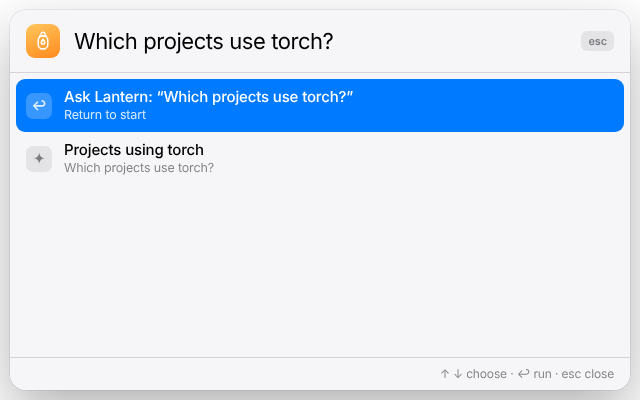
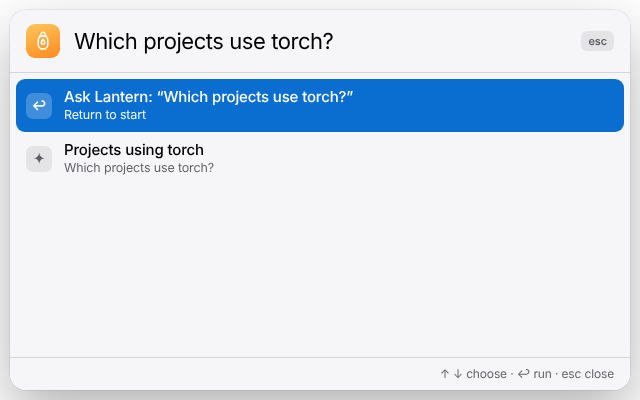
Accessibility: axe-core WCAG 2.1 AA in the e2e, zero violations
The Electron e2e runs axe-core on every panel tab in light and dark,
Quick Ask, the island asking for approval and the avatar, and fails on
any violation. The script goes in through the debugger protocol, so the
pages keep their strict CSP.

The first run found:
- privacy-zone selects with no accessible name (now "Zone for <path>")
- Apple system colours used as small text below 4.5:1: secondary label
  3.6, tint 4.0, orange and green 2.2, tab labels 3.1, white on the red
  Stop button 3.5

Text and fill tokens are now split. Fills and dots keep the system
colours; text uses --tint/--red/--orange/--green-text and a deeper
--label-2; white-text buttons use --tint-fill/--red-fill; model chips
mix their hue toward the label colour. Quick Ask and the island got the
same fixes. The README hero and gallery are re-captured.

axe-core 4.13.0 is a dev dependency (MPL-2.0) and is listed in
THIRD_PARTY.md.

Claude-Session: https://claude.ai/code/session_01TvSoHxY9ukaCyFaMy3MbbJ

diff --git a/desktop/renderer/panel.css b/desktop/renderer/panel.css
@@ -8,13 +8,16 @@
   --fill: rgba(118, 118, 128, .12);
   --fill-2: rgba(118, 118, 128, .2);
   --label: #000000;
-  --label-2: rgba(60, 60, 67, .62);
   --label-3: rgba(60, 60, 67, .32);
   --separator: rgba(60, 60, 67, .2);
   --material: rgba(249, 249, 249, .78);
   --blue: #007aff; --green: #34c759; --orange: #ff9500; --red: #ff3b30; --purple: #af52de;
   --teal: #30b0c7; --indigo: #5856d6; --amber: #ffb340; --gray: #8e8e93;
   --tint: var(--blue);
+  /* Text in colour meets WCAG AA (4.5:1) at these small sizes; the system colours above stay for fills and dots. */
+  --label-2: rgba(60, 60, 67, .8);
+  --tint-text: #0062cc; --red-text: #d70015; --orange-text: #a05a00; --green-text: #1f7a37;
+  --tint-fill: #0a6ed1; --red-fill: #d70015;   /* white text sits on these */
   --shadow: 0 1px 2px rgba(0, 0, 0, .04), 0 8px 24px rgba(0, 0, 0, .06);
   --radius: 12px;
   --spring: cubic-bezier(.2, .8, .2, 1);
@@ -29,6 +32,7 @@
     --blue: #0a84ff; --green: #30d158; --orange: #ff9f0a; --red: #ff453a; --purple: #bf5af2;
     --teal: #40c8e0; --indigo: #5e5ce6; --gray: #98989d;
     --shadow: 0 0 0 .5px rgba(255, 255, 255, .08);
+    --tint-text: #409cff; --red-text: #ff6961; --orange-text: #ffb340; --green-text: #30d158;
   }
 }
 
@@ -63,7 +67,7 @@ button { cursor: pointer; }
 .status.down::before { background: var(--red); }
 .capsule { font-size: 12px; font-weight: 600; font-variant-numeric: tabular-nums; padding: 4px 10px; border-radius: 99px; background: var(--fill); color: var(--label-2); }
 .stop {
-  border: 0; border-radius: 99px; padding: 6px 14px; font-size: 13px; font-weight: 700; color: #fff; background: var(--red);
+  border: 0; border-radius: 99px; padding: 6px 14px; font-size: 13px; font-weight: 700; color: #fff; background: var(--red-fill);
   transition: transform .15s var(--spring), filter .15s;
 }
 .stop:hover { filter: brightness(1.06); }
@@ -79,7 +83,7 @@ main > section.on { display: block; animation: rise .28s var(--spring); }
 .eyebrow { margin: 0 0 2px; font-size: 13px; font-weight: 600; color: var(--label-2); text-transform: uppercase; letter-spacing: .02em; }
 h2.section { margin: 22px 4px 6px; font-size: 13px; font-weight: 400; text-transform: uppercase; letter-spacing: .02em; color: var(--label-2); }
 .footnote { margin: 6px 4px 0; font-size: 12.5px; color: var(--label-2); }
-.warn-text { color: var(--orange); padding: 0 16px 12px; margin: 0; }
+.warn-text { color: var(--orange-text); padding: 0 16px 12px; margin: 0; }
 .warn-text:empty { display: none; }
 .empty { color: var(--label-2); text-align: center; padding: 28px 12px; font-size: 14px; }
 .hint { color: var(--label-2); font-size: 12.5px; margin: 6px 16px; }
@@ -95,10 +99,10 @@ h2.section { margin: 22px 4px 6px; font-size: 13px; font-weight: 400; text-trans
 .row-icon { width: 30px; height: 30px; border-radius: 7px; display: grid; place-items: center; color: #fff; flex: none; }
 .row-icon .ico { width: 19px; height: 19px; }
 .row-icon.teal { background: var(--teal); } .row-icon.orange { background: var(--orange); } .row-icon.blue { background: var(--blue); }
-.row.destructive { color: var(--red); justify-content: center; font-weight: 500; }
-.row.link { color: var(--tint); justify-content: center; font-weight: 500; }
+.row.destructive { color: var(--red-text); justify-content: center; font-weight: 500; }
+.row.link { color: var(--tint-text); justify-content: center; font-weight: 500; }
 .row.destructive:active, .row.link:active { background: var(--fill); }
-.tinted { border: 0; border-radius: 8px; padding: 7px 14px; font-weight: 600; font-size: 14px; color: var(--tint);
+.tinted { border: 0; border-radius: 8px; padding: 7px 14px; font-weight: 600; font-size: 14px; color: var(--tint-text);
           background: color-mix(in srgb, var(--tint) 14%, transparent); }
 .tinted:active { transform: scale(.97); }
 select { appearance: none; -webkit-appearance: none; border: 0; border-radius: 8px; padding: 7px 28px 7px 10px; background: var(--fill)
@@ -110,7 +114,7 @@ select { appearance: none; -webkit-appearance: none; border: 0; border-radius: 8
 .ask .lead { width: 18px; height: 18px; color: var(--label-2); }
 .ask input { flex: 1; min-width: 0; border: 0; outline: 0; background: transparent; font-size: 16px; }
 .ask input::placeholder, .phone-form input::placeholder, .zone-add input::placeholder { color: var(--label-3); }
-.send { width: 32px; height: 32px; border-radius: 50%; border: 0; display: grid; place-items: center; color: #fff; background: var(--tint);
+.send { width: 32px; height: 32px; border-radius: 50%; border: 0; display: grid; place-items: center; color: #fff; background: var(--tint-fill);
         transition: transform .15s var(--spring), opacity .15s; }
 .send .ico { width: 18px; height: 18px; stroke-width: 2.4; }
 .send:active { transform: scale(.92); }
@@ -128,7 +132,7 @@ select { appearance: none; -webkit-appearance: none; border: 0; border-radius: 8
 .tile.orange .t-label::before { background: var(--orange); } .tile.green .t-label::before { background: var(--green); }
 .tile.blue .t-label::before { background: var(--blue); } .tile.purple .t-label::before { background: var(--purple); }
 .tile .t-value { font-size: 26px; font-weight: 700; letter-spacing: -.02em; margin-top: 4px; font-variant-numeric: tabular-nums; }
-.tile.orange .t-value { color: var(--orange); }
+.tile.orange .t-value { color: var(--orange-text); }
 .tile .t-note { font-size: 12.5px; color: var(--label-2); white-space: nowrap; overflow: hidden; text-overflow: ellipsis; }
 
 /* ---- approval sheet ---- */
@@ -154,7 +158,7 @@ select { appearance: none; -webkit-appearance: none; border: 0; border-radius: 8
 .approval .hash { font: 11px var(--mono); color: var(--label-3); margin-top: 6px; }
 .approval .row-btns { display: grid; grid-template-columns: 1fr 1.6fr; gap: 10px; margin-top: 14px; }
 .approval .deny { border: 0; border-radius: 12px; height: 46px; font-weight: 600; font-size: 16px; color: var(--label); background: var(--fill); }
-.approval .allow { border: 0; border-radius: 12px; height: 46px; font-weight: 600; font-size: 16px; color: #fff; background: var(--tint);
+.approval .allow { border: 0; border-radius: 12px; height: 46px; font-weight: 600; font-size: 16px; color: #fff; background: var(--tint-fill);
                    transition: transform .15s var(--spring), filter .15s; }
 .approval .allow:hover { filter: brightness(1.06); }
 .approval .allow:active, .approval .deny:active { transform: scale(.98); }
@@ -173,32 +177,32 @@ select { appearance: none; -webkit-appearance: none; border: 0; border-radius: 8
 .task .goal { font-weight: 600; font-size: 15px; }
 .task .status { font-size: 12.5px; color: var(--label-2); margin-top: 1px; }
 .task details { margin-top: 8px; }
-.task summary { font-size: 13px; color: var(--tint); cursor: pointer; list-style: none; }
+.task summary { font-size: 13px; color: var(--tint-text); cursor: pointer; list-style: none; }
 .task summary::-webkit-details-marker { display: none; }
 .task summary::after { content: " ›"; }
 .task details[open] summary::after { content: " ⌄"; }
 .steps { list-style: none; margin: 6px 0 0; padding: 0; }
 .steps li { display: flex; align-items: center; gap: 8px; padding: 3px 0; font-size: 13px; }
-.steps li.bad { color: var(--red); }
+.steps li.bad { color: var(--red-text); }
 .chip { flex: none; font-size: 11px; font-weight: 600; padding: 2px 8px; border-radius: 99px; background: var(--fill); color: var(--label-2); }
-.chip.spark { background: color-mix(in srgb, var(--indigo) 16%, transparent); color: var(--indigo); }
-.chip.wonder { background: color-mix(in srgb, var(--orange) 18%, transparent); color: color-mix(in srgb, var(--orange) 80%, var(--label)); }
-.chip.glimmer { background: color-mix(in srgb, var(--green) 18%, transparent); color: color-mix(in srgb, var(--green) 70%, var(--label)); }
-.chip.voice { background: color-mix(in srgb, var(--teal) 18%, transparent); color: var(--teal); }
-.chip.image { background: color-mix(in srgb, var(--purple) 16%, transparent); color: var(--purple); }
-.chip.sam { background: color-mix(in srgb, var(--blue) 14%, transparent); color: var(--blue); }
+.chip.spark { background: color-mix(in srgb, var(--indigo) 16%, transparent); color: color-mix(in srgb, var(--indigo) 55%, var(--label)); }
+.chip.wonder { background: color-mix(in srgb, var(--orange) 18%, transparent); color: color-mix(in srgb, var(--orange) 55%, var(--label)); }
+.chip.glimmer { background: color-mix(in srgb, var(--green) 18%, transparent); color: color-mix(in srgb, var(--green) 55%, var(--label)); }
+.chip.voice { background: color-mix(in srgb, var(--teal) 18%, transparent); color: color-mix(in srgb, var(--teal) 55%, var(--label)); }
+.chip.image { background: color-mix(in srgb, var(--purple) 16%, transparent); color: color-mix(in srgb, var(--purple) 55%, var(--label)); }
+.chip.sam { background: color-mix(in srgb, var(--blue) 14%, transparent); color: color-mix(in srgb, var(--blue) 55%, var(--label)); }
 .task .reply { margin: 10px 0 0; padding: 10px 12px; border-radius: 12px; background: var(--fill); white-space: pre-wrap; font-size: 14px; }
 .task .actions { display: flex; gap: 16px; margin-top: 8px; }
-.task .forget { border: 0; background: transparent; color: var(--tint); font-size: 13px; padding: 0; }
+.task .forget { border: 0; background: transparent; color: var(--tint-text); font-size: 13px; padding: 0; }
 .task .forget.quiet { color: var(--label-2); }
 .task .undone { font-size: 13px; color: var(--label-2); }
 .interrupted { background: var(--card); border-radius: var(--radius); box-shadow: var(--shadow); padding: 12px 14px; margin-top: 12px; font-size: 13.5px; }
 .interrupted ul { margin: 6px 0 8px; padding-left: 18px; color: var(--label-2); }
 
 /* ---- reminders ---- */
-.reminder .when { flex: none; font-weight: 600; font-size: 13px; color: var(--orange); font-variant-numeric: tabular-nums; }
+.reminder .when { flex: none; font-weight: 600; font-size: 13px; color: var(--orange-text); font-variant-numeric: tabular-nums; }
 .reminder .what { flex: 1; min-width: 0; word-break: break-word; }
-.reminder .forget { border: 0; background: transparent; color: var(--tint); font-size: 13.5px; padding: 0; }
+.reminder .forget { border: 0; background: transparent; color: var(--tint-text); font-size: 13.5px; padding: 0; }
 .checkin-group { margin-top: 22px; }
 .checkin select { flex: 1; }
 
@@ -208,7 +212,7 @@ select { appearance: none; -webkit-appearance: none; border: 0; border-radius: 8
 .hero-number .big { display: block; font-size: 34px; line-height: 1.1; letter-spacing: -.02em; font-variant-numeric: tabular-nums; }
 .hero-number .caption { display: block; margin-top: 2px; font-size: 14.5px; font-weight: 500; color: var(--label-2); letter-spacing: 0; }
 .hero-number.small { font-size: 17px; }
-.hero-good { margin: 4px 0 0; color: var(--green); font-weight: 500; font-size: 14px; }
+.hero-good { margin: 4px 0 0; color: var(--green-text); font-weight: 500; font-size: 14px; }
 table.rows { width: 100%; border-collapse: collapse; }
 table.rows td { padding: 11px 16px; border-top: .5px solid var(--separator); font-size: 14.5px; }
 table.rows td:last-child { text-align: right; color: var(--label-2); font-variant-numeric: tabular-nums; }
@@ -233,7 +237,7 @@ table.rows td:last-child { text-align: right; color: var(--label-2); font-varian
        box-shadow: 0 .5px 0 var(--separator); }
 .msg.me { align-self: flex-end; background: var(--green); color: #fff; }
 .msg .btns { display: flex; flex-direction: column; margin: 8px -12px -8px; }
-.msg .btns button { border: 0; border-top: .5px solid var(--separator); background: transparent; color: var(--tint); padding: 9px; font-weight: 600; }
+.msg .btns button { border: 0; border-top: .5px solid var(--separator); background: transparent; color: var(--tint-text); padding: 9px; font-weight: 600; }
 .phone-form { display: flex; gap: 8px; align-items: center; padding: 8px 10px; border-top: .5px solid var(--separator); }
 .phone-form input { flex: 1; height: 36px; border-radius: 18px; border: .5px solid var(--separator); background: var(--bg); padding: 0 14px; outline: 0; }
 
@@ -261,9 +265,9 @@ table.rows td:last-child { text-align: right; color: var(--label-2); font-varian
   border-top: .5px solid var(--separator);
 }
 .tabs button { flex: 1; border: 0; background: transparent; display: flex; flex-direction: column; align-items: center; gap: 2px;
-               padding: 4px 0; color: var(--gray); font-size: 10.5px; font-weight: 500; border-radius: 10px; }
+               padding: 4px 0; color: var(--label-2); font-size: 10.5px; font-weight: 500; border-radius: 10px; }
 .tabs button .ico { width: 24px; height: 24px; }
-.tabs button.on { color: var(--tint); }
+.tabs button.on { color: var(--tint-text); }
 .tabs button.on .ico { stroke-width: 2.1; }
 
 /* ---- toast (HUD) ---- */
@@ -306,7 +310,7 @@ kbd { font: 600 12px var(--font); color: var(--label-2); padding: 3px 8px; borde
 .features b { display: block; font-size: 15px; }
 .features small { display: block; color: var(--label-2); font-size: 13.5px; line-height: 1.35; }
 .row-icon.green { background: var(--green); } .row-icon.purple { background: var(--purple); }
-.primary { width: 100%; height: 50px; border: 0; border-radius: 14px; font-size: 17px; font-weight: 600; color: #fff; background: var(--tint);
+.primary { width: 100%; height: 50px; border: 0; border-radius: 14px; font-size: 17px; font-weight: 600; color: #fff; background: var(--tint-fill);
            transition: transform .15s var(--spring), filter .15s; }
 .primary:hover { filter: brightness(1.06); }
 .primary:active { transform: scale(.98); }

diff --git a/desktop/e2e/run.js b/desktop/e2e/run.js
@@ -101,6 +101,20 @@ async function main() {
                      steps: [...t.querySelectorAll('.steps li')].map((li) => li.textContent) } : null;
       });
     }
+    // accessibility: axe-core (WCAG 2.1 A/AA) on every panel tab in light and dark, Quick Ask and the island
+    const AXE = fs.readFileSync(require.resolve('axe-core/axe.min.js'), 'utf8');
+    async function a11y(page, where) {
+      await page.evaluate(AXE);   // via the debugger protocol, so the page's CSP stays as strict as shipped
+      const found = await page.evaluate(async () => (await window.axe.run(document, {
+        runOnly: { type: 'tag', values: ['wcag2a', 'wcag2aa', 'wcag21a', 'wcag21aa'] }, resultTypes: ['violations'] }))
+        .violations.map((v) => ({ id: v.id, impact: v.impact, nodes: v.nodes.map((n) => {
+          const d = (n.any[0] && n.any[0].data) || {};
+          return n.target.join(' ') + (d.contrastRatio ? ` (${d.fgColor} on ${d.bgColor} = ${d.contrastRatio}:1, ${d.fontSize} ${d.fontWeight})` : '');
+        }) })));
+      for (const v of found) console.log(`    a11y ${where}: ${v.impact} ${v.id}\n      ${v.nodes.join('\n      ')}`);
+      return found;
+    }
+    let violations = [];
     async function finish(goal, allows, via = 'panel', start = () => ask(goal)) {
       const before = (await latestTask()) || { status: '' };
       await start();
@@ -111,6 +125,7 @@ async function main() {
           await sleep(500);
           await avatar.screenshot({ path: path.join(OUT, '8-island-approval.png') });
           await avatar.locator('.stage').screenshot({ path: path.join(OUT, '8-island-cut.png'), omitBackground: true });
+          violations = violations.concat(await a11y(avatar, 'island with an approval'));
           await avatar.click('#island-allow');
           console.log('    ⏸ approved from the island');
           await until('the card to close', async () => !(await panel.$('.approval .allow')), 15000);
@@ -191,6 +206,7 @@ async function main() {
     const quickPage = await until('the Quick Ask window', async () => app.windows().find((p) => p.url().endsWith('quick.html')));
     await quickPage.waitForSelector('#q-rows li', { timeout: 10000 });
     const suggestions = await quickPage.$$eval('#q-rows li', (els) => els.map((e) => e.className));
+    violations = violations.concat(await a11y(quickPage, 'quick ask'));
     check(suggestions.includes('suggestion') && suggestions.includes('recent'), `Quick Ask lists suggestions and recent tasks (${suggestions.join(', ')})`);
     await quickPage.fill('#q', 'Which projects use torch?');
     await sleep(200);
@@ -252,6 +268,13 @@ async function main() {
     const limits = await until('the spending limits', async () => panel.textContent('#cost-limits'));
     check(limits === 'Stops itself at $150.00 · $3.00 per task.', `Costs tab shows the limits enforced in code (${limits})`);
 
+    const TABS = ['tasks', 'privacy', 'phone', 'costs', 'widgets', 'setup'];
+    for (const name of TABS) {
+      await panel.click(`.tabs button[data-tab=${name}]`);
+      await sleep(350);
+      violations = violations.concat(await a11y(panel, `${name} (light)`));
+    }
+
     // dark appearance (macOS/Windows pass the system theme through; headless Linux can't, so emulate it)
     await panel.emulateMedia({ colorScheme: 'dark' });
     await panel.click('.tabs button[data-tab=tasks]');
@@ -260,6 +283,15 @@ async function main() {
     const dark = await panel.evaluate(() => getComputedStyle(document.body).backgroundColor);
     check(dark === 'rgb(0, 0, 0)', `dark appearance applies (${dark})`);
     await panel.screenshot({ path: path.join(OUT, '7-dark.png') });
+    for (const name of TABS) {
+      await panel.click(`.tabs button[data-tab=${name}]`);
+      await sleep(350);
+      violations = violations.concat(await a11y(panel, `${name} (dark)`));
+    }
+    await panel.click('.tabs button[data-tab=tasks]');
+    violations = violations.concat(await a11y(avatar, 'avatar'));
+    check(violations.length === 0, `no WCAG 2.1 AA violations (axe-core) on 6 panel tabs × light/dark, Quick Ask and the island` +
+          (violations.length ? `: ${[...new Set(violations.map((v) => v.id))].join(', ')}` : ''));
     await panel.emulateMedia({ colorScheme: 'light' });
 
     check(!/\[object |undefined|NaN/.test(await panel.textContent('main')), 'no rendering glitches ([object …], undefined, NaN) anywhere in the panel');

diff --git a/desktop/renderer/quick.css b/desktop/renderer/quick.css
@@ -1,12 +1,12 @@
 :root {
   color-scheme: light dark;
-  --label: #000; --label-2: rgba(60, 60, 67, .62); --sep: rgba(60, 60, 67, .18);
-  --surface: rgba(246, 246, 248, .97); --hl: #007aff; --hl-text: #fff; --chip: rgba(118, 118, 128, .14);
+  --label: #000; --label-2: rgba(60, 60, 67, .8); --sep: rgba(60, 60, 67, .18);
+  --surface: rgba(246, 246, 248, .97); --hl: #0a6ed1; --hl-text: #fff;   /* white on it meets WCAG AA */ --chip: rgba(118, 118, 128, .14);
   --font: -apple-system, BlinkMacSystemFont, "SF Pro Text", "Segoe UI Variable Text", "Segoe UI", system-ui, sans-serif;
 }
 @media (prefers-color-scheme: dark) {
   :root { --label: #fff; --label-2: rgba(235, 235, 245, .62); --sep: rgba(84, 84, 88, .6); --surface: rgba(36, 36, 38, .97);
-          --hl: #0a84ff; --chip: rgba(118, 118, 128, .3); }
+          --chip: rgba(118, 118, 128, .3); }
 }
 * { box-sizing: border-box; }
 html, body { margin: 0; height: 100%; background: transparent; overflow: hidden; }
@@ -32,9 +32,9 @@ kbd { font: 600 11px var(--font); color: var(--label-2); padding: 3px 7px; borde
 .q-rows li .t b { font-weight: 500; white-space: nowrap; overflow: hidden; text-overflow: ellipsis; }
 .q-rows li .t small { color: var(--label-2); font-size: 12.5px; white-space: nowrap; overflow: hidden; text-overflow: ellipsis; }
 .q-rows li[aria-selected="true"] { background: var(--hl); color: var(--hl-text); }
-.q-rows li[aria-selected="true"] small, .q-rows li[aria-selected="true"] .k { color: rgba(255, 255, 255, .85); }
+.q-rows li[aria-selected="true"] small, .q-rows li[aria-selected="true"] .k { color: rgba(255, 255, 255, .96); }
 .q-rows li[aria-selected="true"] .k { background: rgba(255, 255, 255, .22); }
-.q-rows li.stop .k { background: #ff3b30; color: #fff; }
-.q-rows li.approvals .k { background: #ff9500; color: #fff; }
+.q-rows li.stop .k { background: #d70015; color: #fff; }
+.q-rows li.approvals .k { background: #ff9500; color: #000; }
 .q-foot { display: flex; justify-content: space-between; gap: 10px; padding: 8px 16px; border-top: .5px solid var(--sep); font-size: 12px; color: var(--label-2); }
 @media (prefers-reduced-motion: reduce) { .quick { animation: none; } }

diff --git a/desktop/renderer/panel.js b/desktop/renderer/panel.js
@@ -370,9 +370,9 @@
       // Built-in hidden paths for other systems (macOS keychains on Linux, ...) don't exist here: fold them away.
       const folded = z.zones.filter((zone) => zone.zone === 'hidden' && zone.exists === false);
       for (const zone of z.zones.filter((x) => !folded.includes(x))) {
-        const sel = h('select', { onchange: (e) => setZone(zone.path, e.target.value) },
-          z.choices.map((c) => h('option', c === zone.zone ? { selected: true } : {}, c)));
         const name = zone.path.split(/[\\/]/).filter(Boolean).pop() || zone.path;
+        const sel = h('select', { onchange: (e) => setZone(zone.path, e.target.value), 'aria-label': `Zone for ${zone.path}` },
+          z.choices.map((c) => h('option', c === zone.zone ? { selected: true } : {}, c)));
         list.append(h('div', { class: 'zone' }, h('div', { class: 'zone-name' }, h('b', {}, name), h('code', {}, zone.path)), sel));
       }
       if (folded.length) list.append(h('p', { class: 'hint' }, `+ ${folded.length} built-in hidden paths that don't exist on this computer`));

diff --git a/desktop/renderer/avatar.css b/desktop/renderer/avatar.css
@@ -41,7 +41,7 @@ body { font: 13px/1.35 -apple-system, BlinkMacSystemFont, "SF Pro Text", "Segoe 
 .buttons button { border: 0; height: 34px; border-radius: 17px; font: inherit; font-weight: 600; font-size: 13.5px; cursor: pointer; transition: transform .15s; }
 .buttons button:active { transform: scale(.96); }
 .buttons .deny { background: rgba(255, 255, 255, .16); color: #fff; }
-.buttons .allow { background: #0a84ff; color: #fff; }
+.buttons .allow { background: #0a6ed1; color: #fff; }   /* white on it meets WCAG AA */
 .buttons .review { background: #fff; color: #000; }
 .buttons.review-only .allow { display: none; }
 .buttons:not(.review-only) .review { display: none; }

diff --git a/docs/DECISIONS.md b/docs/DECISIONS.md
@@ -90,3 +90,4 @@
 - Oct 27 (M29): Undo doesn't ask the model. The reverse of every verified move is logged in memory, and Undo replays that log through the same approval and on-disk checks as a tidy. This is cheaper ($0), can't be talked into a different plan by file names, and works offline. An undo goes back to the exact old path or not at all; it never renames or overwrites to make room. "Undo" typed in the panel, Quick Ask or the phone means "undo the last task that moved files". The same word from another program over MCP is only text for the model.
 - Oct 27 (M30): Spending limits live in code, checked before every call, with defaults of $150 total and $3 per task. A single task above $3 is almost certainly a loop: a full form fill on Muse Wonder should cost well under a dollar. The count comes from a per-day dollar ledger that "forget" leaves in place. It holds no task, no content and no model, only a date and a sum; resetting it would let a forgotten task's spending hide from the limit. Voice transcription and avatar images aren't metered there (fractions of a cent per use); every Responses call is.
 - Oct 27 (Windows): All text I/O is UTF-8, said explicitly at every call site and enforced by an AST test, rather than relying on Python's UTF-8 mode (`PYTHONUTF8=1`). Users don't set environment variables, and Electron or a shortcut launching Lantern wouldn't carry it. Files Lantern writes keep `\n` line endings: Notepad has handled them since 2018, and exact round-trips keep verification honest.
+- Oct 27 (accessibility): WCAG 2.1 AA beats pixel-matching Apple's palette. Apple's system blue, secondary label and red, as small text or under white text, measure 3.1–4.0:1, and AA asks 4.5:1. Fills, dots and large shapes keep the system colours. Text, and anything with white text on it, uses slightly deeper variants (lighter in dark mode). The look stays Apple-like and it reads better on a projector, which is where the demo will be judged.

diff --git a/BUILD_LOG.md b/BUILD_LOG.md
@@ -232,3 +232,19 @@ Everything in this repo was written during the Meta Global AI Developer Hackatho
   - **`.env` encodings:** Windows PowerShell 5.1's `echo MODEL_API_KEY=... > .env` saves UTF-16 with a BOM, and python-dotenv reads UTF-8, so Lantern would have crashed at startup or lost the key. `config.load_env()` now detects UTF-16 / UTF-8-BOM / UTF-8 and is used by the CLI, the server and `scripts/smoke.py`.
   - **README:** a PowerShell quick start (PowerShell 5.1 has no `&&`; `py -m lantern` works without pip's Scripts folder on PATH).
   - 1 new test; 395 passing.
+- Accessibility pass.
+  - **The check:** the Electron e2e now runs axe-core (WCAG 2.1 A/AA) on:
+    - all six panel tabs, in light and dark
+    - Quick Ask
+    - the island while it asks for approval, and the avatar window
+  - Any violation fails the run. The axe script is injected through the debugger protocol, so the pages' strict CSP stays as shipped.
+  - **First run:** 14 kinds of findings.
+    - the privacy-zone selects had no accessible name (now "Zone for <path>")
+    - Apple's system colours used as small text fell short of 4.5:1: secondary labels 3.6:1, the blue tint 4.0:1, orange 2.2:1, green 2.2:1, unselected tab labels 3.1:1, and white on the red Stop button 3.5:1
+  - **Fix:** text and fill tokens are split.
+    - fills and dots keep the system colours
+    - text uses `--tint-text` / `--red-text` / `--orange-text` / `--green-text` (lighter variants in dark mode) and a darker `--label-2`
+    - white-text buttons use `--tint-fill` / `--red-fill`
+    - model chips mix their hue toward the label colour, so they pass in both modes
+    - Quick Ask and the island got the same treatment
+  - **Result:** 0 violations. The README hero and gallery were re-captured from this run.

diff --git a/docs/THIRD_PARTY.md b/docs/THIRD_PARTY.md
@@ -19,3 +19,4 @@
 | setuptools (build only) | MIT | builds the `lantern` package and command from `pyproject.toml` |
 | pyflakes (dev only) | MIT | lint in CI: unused imports, undefined names |
 | GitHub Actions: actions/checkout, actions/setup-python, actions/setup-node (CI only) | MIT | runs the tests, the rehearsal and the doctor on each pull request |
+| axe-core 4.13.0 (desktop, dev dependency) | MPL-2.0 | accessibility checks (WCAG 2.1 AA) in the end-to-end test; never shipped in the app |
